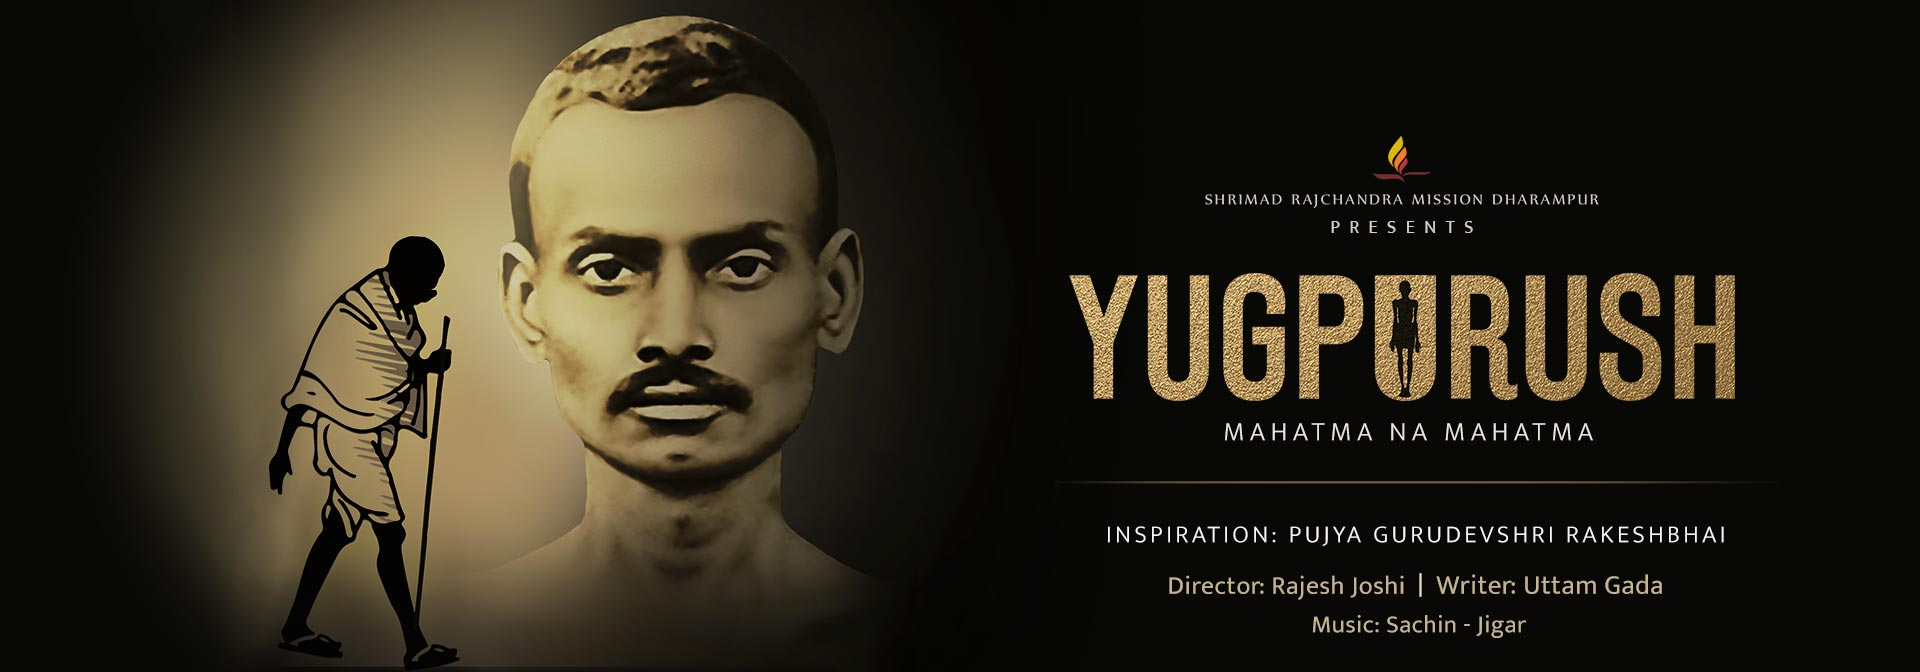
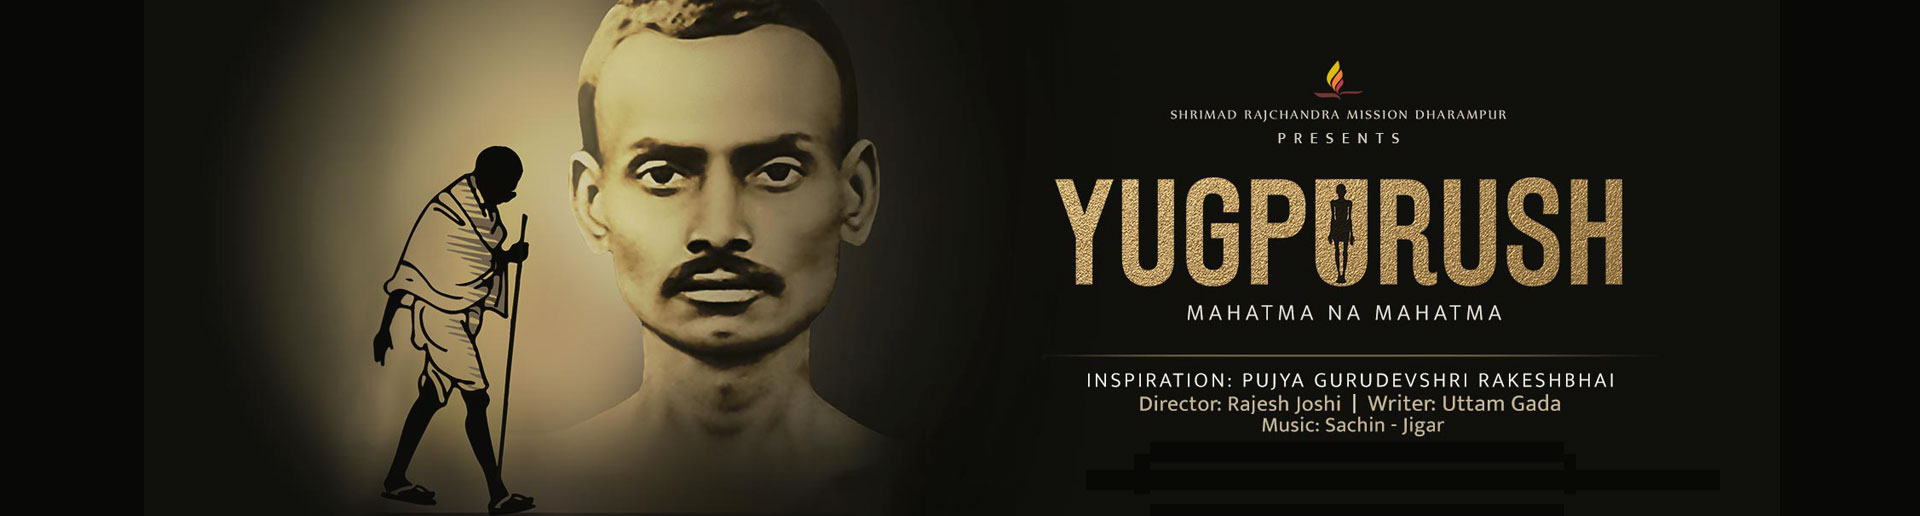
container width changes

Changed region(s): [[0.0625, 0.0, 0.4688, 1.0], [0.5312, 0.124, 0.9062, 0.6512], [0.5625, 0.6822, 0.9062, 0.9612]]

diff --git a/www/booking.html b/www/booking.html
@@ -217,6 +217,15 @@
             <div class="col-sm-4 col-md-4">
               <div class="film-select-step">
                 <h3 class="text-right">21 Oct 2017</h3>
+                <div class="well">
+                  <div id="datetimepicker3" class="input-append">
+                    <input data-format="hh:mm:ss" type="text"></input>
+                    <span class="add-on">
+                      <i data-time-icon="icon-time" data-date-icon="icon-calendar">
+                      </i>
+                    </span>
+                  </div>
+                </div>
                 <div class="select-step-boxes">
                   <div class="row">
                     <div class="col-sm-12 col-md-12">
@@ -1449,6 +1458,13 @@
     <script src="js/star-rating.js"></script>
     <script src="js/bootstrap-datepicker.min.js"></script>
     <script src="js/custom.js"></script>
+    <script type="text/javascript">
+      $(function() {
+        $('#datetimepicker3').datetimepicker({
+          pickDate: false
+        });
+      });
+    </script>
 
     
 

diff --git a/www/css/style2.css b/www/css/style2.css
@@ -380,7 +380,7 @@ a, a:hover, a:active, a:focus{
   width: 100%;
   left: 0px;
   z-index: 9;
-  bottom: -27px;
+  bottom: -28px;
 }
 .com-logo{
   width: 50px;
@@ -1208,7 +1208,7 @@ a, a:hover, a:active, a:focus{
     margin-top: 50px;
   }
   .container {
-    width: 960px;
+    width: 1060px;
   }
 }
  
